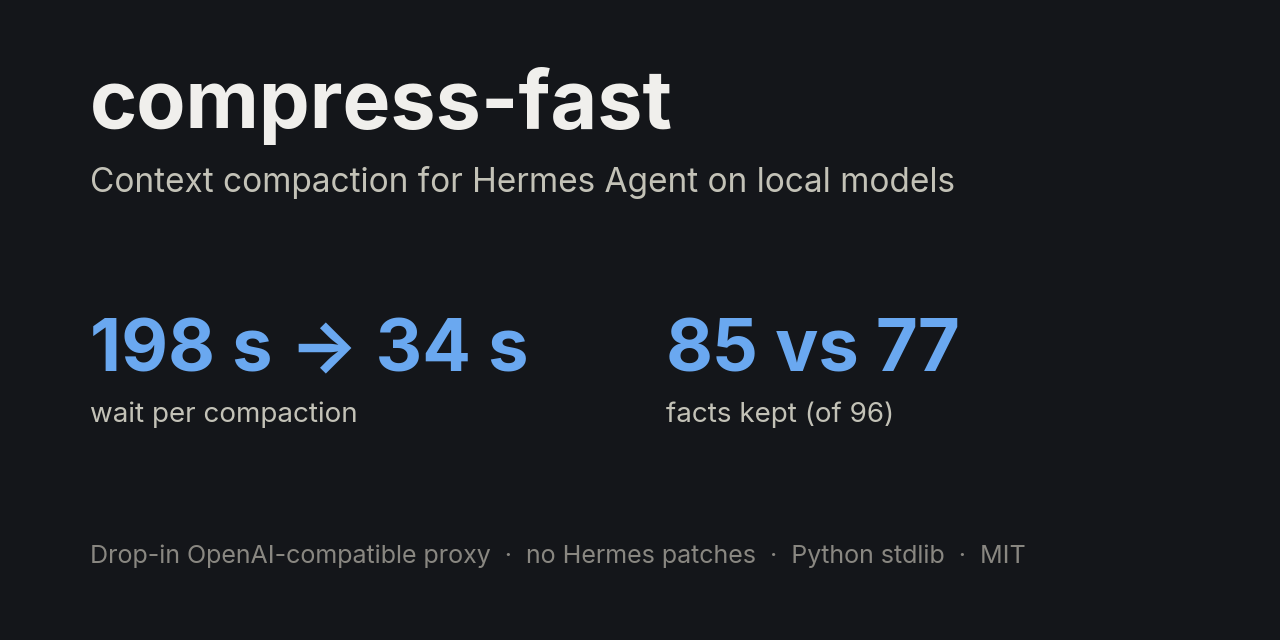
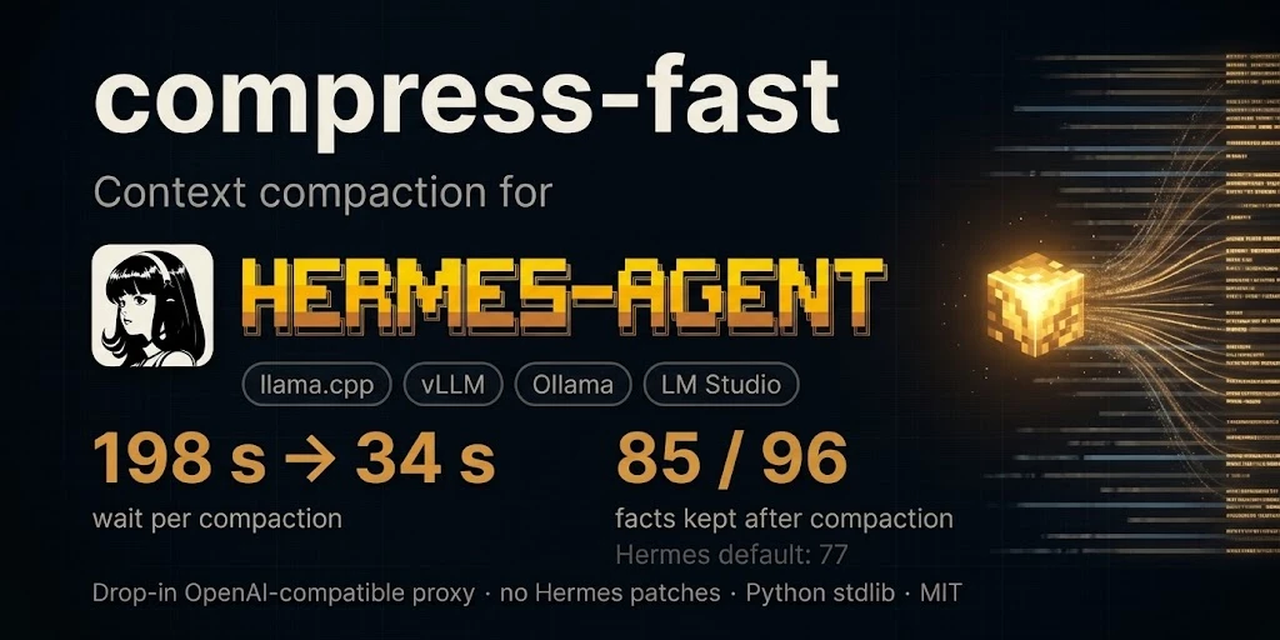
New social preview card

Changed region(s): [[0.0625, 0.0625, 1.0, 0.9375], [0.0625, 0.0625, 0.75, 0.3438]]

diff --git a/docs/make_images.py b/docs/make_images.py
@@ -1,9 +1,12 @@
-"""Render docs/results-dark.png and docs/results-light.png (README) and docs/social-preview.png
-(GitHub social preview, 1280x640).
+"""Render docs/results-dark.png and docs/results-light.png (README).
+
+docs/social-preview.png (GitHub social preview, 1280x640) is a designed card and not rendered here;
+`--social` writes the plain fallback version to docs/social-preview-plain.png.
 
 Numbers are the measurements from the README table. Needs matplotlib; not used by the service.
 Usage: python3 docs/make_images.py
 """
+import sys
 from pathlib import Path
 
 import matplotlib
@@ -82,12 +85,13 @@ def social() -> None:
     t(0.52, 0.34, "facts kept (of 96)", fontsize=20, color="#c3c2b7")
     t(0.07, 0.12, "Drop-in OpenAI-compatible proxy  ·  no Hermes patches  ·  Python stdlib  ·  MIT",
       fontsize=18, color="#898781")
-    fig.savefig(OUT / "social-preview.png", facecolor=fig.get_facecolor())
+    fig.savefig(OUT / "social-preview-plain.png", facecolor=fig.get_facecolor())
     plt.close(fig)
 
 
 if __name__ == "__main__":
     for name in THEMES:
         results(name)
-    social()
-    print("wrote results-dark.png, results-light.png, social-preview.png to", OUT)
+    if "--social" in sys.argv:
+        social()
+    print("wrote results-dark.png, results-light.png to", OUT)
